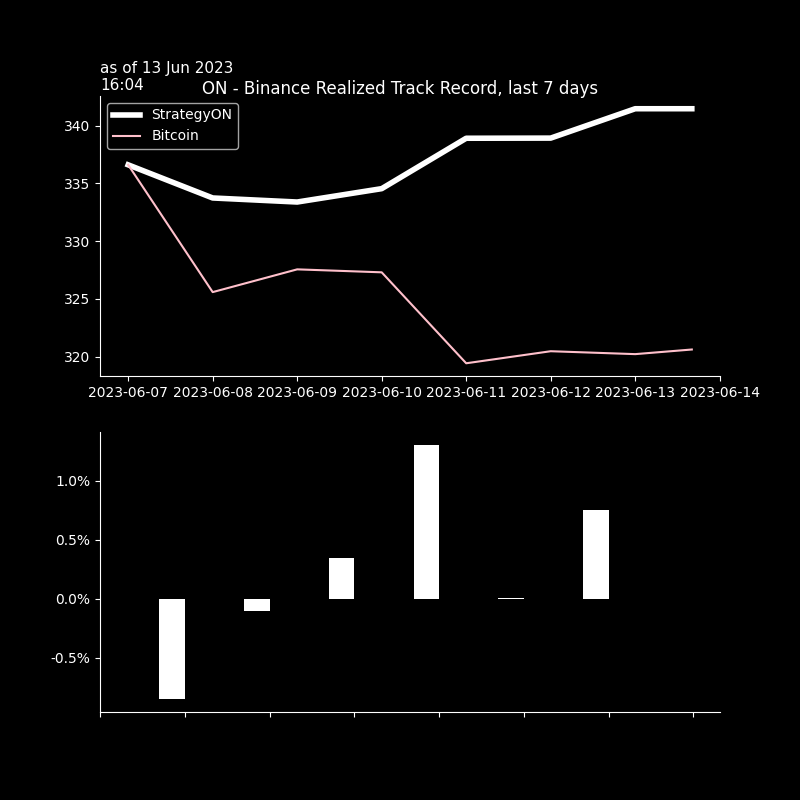
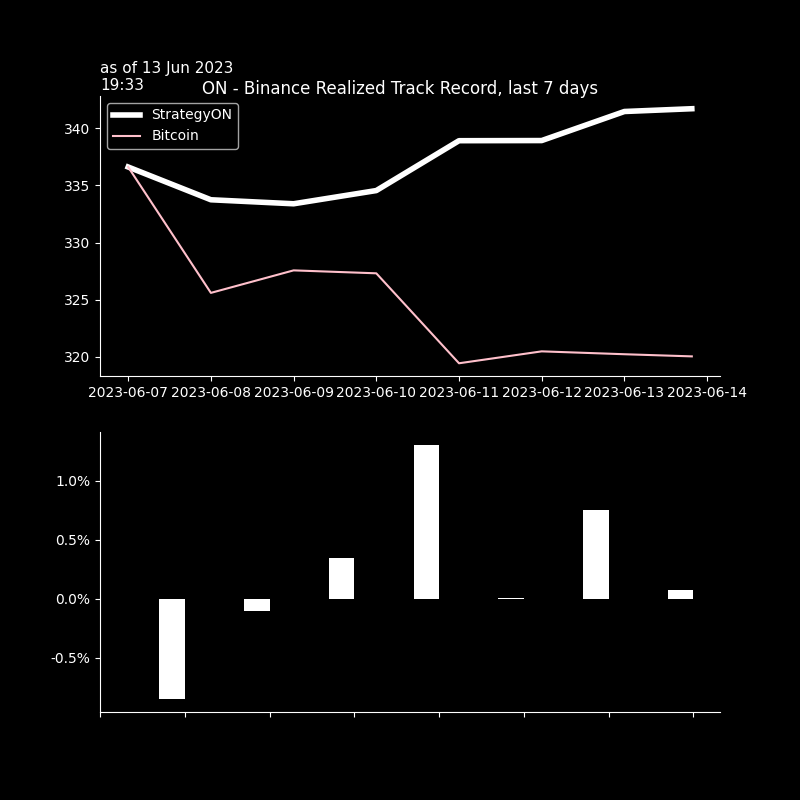
seb_commit

diff --git a/crypto/index_tearsheets.html b/crypto/index_tearsheets.html
@@ -85,25 +85,28 @@ PAGE DE GARDE
             }
 
             let tree = {
-                1: {
-                    2: {
-                        4: '',
+                    1: {
+                    2: {},
+                    3: {
                         5: '',
                         6: '',
+                        7: '',
                     },
-                    3: {7:''},
-
+                    4: {},
+                    
                 },
             };
 
             let params = {
-                1: { trad: '<b>Mozaic+Overnight</b>',href:'graphs/backtest/tearsheets/Mozaic+Overnight.html' },
-                2: { trad: '<b>Mozaic</b>' ,href:'graphs/backtest/tearsheets/Mozaic.html'},
-                3: { trad: '<b>Overnight</b>' ,href:'graphs/backtest/tearsheets/4_Overnight.html'},
-                4: { trad: '<b>Strategy1<br>Mozaic L</b><br>[100%]' ,href:'graphs/backtest/tearsheets/1_Mozaic_L.html'},
-                5: { trad: '<b>Strategy2<br>Mozaic L Flexible</b><br>[0%,+100%]' ,href:'graphs/backtest/tearsheets/2_Mozaic_SL.html'},
-                6: { trad: '<b>Strategy3<br>Mozaic L/S</b><br>net:[0%,+100%]' ,href:'graphs/backtest/tearsheets/3_Mozaic_LS.html'},
-                7: { trad: '<b>Strategy4<br>Overnight</b><br>[-100%,+100%]' ,href:'graphs/backtest/tearsheets/4_Overnight.html'},
+                1: { trad: '<b>TAME STRATEGY</b>',href:'graphs/backtest/tearsheets/Mozaic+Overnight.html' },
+                3: { trad: '<b>Coins Rotation</b>' ,href:'graphs/backtest/tearsheets/Mozaic.html'},
+                2: { trad: '<b>Overnight</b>' ,href:'graphs/backtest/tearsheets/4_Overnight.html'},
+                4: { trad: '<b>Liquity</b>' ,href:'graphs/backtest/tearsheets/4_Overnight.html'},
+                5: { trad: '<b>Strategy1<br>Mozaic L</b><br>[100%]' ,href:'graphs/backtest/tearsheets/1_Mozaic_L.html'},
+                6: { trad: '<b>Strategy2<br>Mozaic L Flexible</b><br>[0%,+100%]' ,href:'graphs/backtest/tearsheets/2_Mozaic_SL.html'},
+                7: { trad: '<b>Strategy3<br>Mozaic L/S</b><br>net:[0%,+100%]' ,href:'graphs/backtest/tearsheets/3_Mozaic_LS.html'},
+                8: { trad: '<b>Strategy4<br>Overnight</b><br>[-100%,+100%]' ,href:'graphs/backtest/tearsheets/4_Overnight.html'},
+                
             };
 
             treeMaker.default(tree, {

diff --git a/crypto/graphs/bt_trades_book.htmltrade_trades_book.html b/crypto/graphs/bt_trades_book.htmltrade_trades_book.html
@@ -37,21 +37,55 @@
   </thead>
   <tbody>
     <tr>
-      <th>XRPUSDT</th>
-      <td>0.5124</td>
-      <td>2023-06-13 17:07:00</td>
-      <td>-133.7</td>
-      <td>$-68.5</td>
-      <td>$0.01</td>
-      <td>1.6</td>
-      <td>0.5</td>
-      <td>0.51235</td>
-      <td>2023-06-13 18:06</td>
+      <th>ETHUSDT</th>
+      <td>1741.8000</td>
+      <td>2023-06-13 18:33:16</td>
+      <td>0.098</td>
+      <td>$170.7</td>
+      <td>$0.07</td>
+      <td>4.0</td>
       <td>0.0</td>
-      <td>1.0</td>
-      <td>.5125</td>
+      <td>1742.61500</td>
+      <td>2023-06-13 19:31</td>
+      <td>0.1</td>
+      <td>5.0</td>
+      <td>1741.65</td>
       <td>-0.0</td>
       <td>-1.0</td>
+    </tr>
+    <tr>
+      <th>XRPUSDT</th>
+      <td>0.5151</td>
+      <td>2023-06-13 18:32:23</td>
+      <td>331.800</td>
+      <td>$170.9</td>
+      <td>$0.03</td>
+      <td>1.6</td>
+      <td>0.0</td>
+      <td>0.51525</td>
+      <td>2023-06-13 19:31</td>
+      <td>0.1</td>
+      <td>3.0</td>
+      <td>.5149</td>
+      <td>-0.1</td>
+      <td>-4.0</td>
+    </tr>
+    <tr>
+      <th>BTCUSDT</th>
+      <td>25881.9000</td>
+      <td>2023-06-13 18:33:11</td>
+      <td>0.007</td>
+      <td>$181.2</td>
+      <td>$0.03</td>
+      <td>1.6</td>
+      <td>0.0</td>
+      <td>25886.95000</td>
+      <td>2023-06-13 19:31</td>
+      <td>0.0</td>
+      <td>2.0</td>
+      <td>25876.6</td>
+      <td>-0.0</td>
+      <td>-2.0</td>
     </tr>
   </tbody>
 </table>

diff --git a/crypto/graphs/bt_trades_recap.htmltrade_trades_recap.html b/crypto/graphs/bt_trades_recap.htmltrade_trades_recap.html
@@ -9,33 +9,33 @@
   <tbody>
     <tr>
       <th>as of</th>
-      <td>13Jun 17:07&gt;&gt;17:07</td>
-      <td>#trades: 1</td>
+      <td>13Jun 18:32&gt;&gt;18:33</td>
+      <td>#trades: 3</td>
     </tr>
     <tr>
       <th>trade net</th>
-      <td>-69.0</td>
-      <td>-20.2%</td>
+      <td>+523.0</td>
+      <td>+153.0%</td>
     </tr>
     <tr>
       <th>trade gross</th>
-      <td>+69.0</td>
-      <td>+20.2%</td>
+      <td>+523.0</td>
+      <td>+153.0%</td>
     </tr>
     <tr>
       <th>BUY</th>
+      <td>+523.0</td>
+      <td>+153.0%</td>
+    </tr>
+    <tr>
+      <th>SELL</th>
       <td>+0.0</td>
       <td>+0.0%</td>
     </tr>
     <tr>
-      <th>SELL</th>
-      <td>-69.0</td>
-      <td>-20.2%</td>
-    </tr>
-    <tr>
       <th>fees</th>
-      <td>$ 0.011</td>
-      <td>1.6bp</td>
+      <td>$ 0.125</td>
+      <td>2.38bp</td>
     </tr>
   </tbody>
 </table>

diff --git a/crypto/graphs/bt_trades_pnlD_recap.htmltrade_trades_pnlD_recap.html b/crypto/graphs/bt_trades_pnlD_recap.htmltrade_trades_pnlD_recap.html
@@ -1,7 +1,7 @@
 <table border="1" class="dataframe">
   <thead>
     <tr style="text-align: right;">
-      <th>13 Jun 18:07</th>
+      <th>13 Jun 19:33</th>
       <th>realizedPnl</th>
       <th>PnLvsArrival</th>
       <th>PnLvsLast</th>
@@ -10,21 +10,21 @@
   <tbody>
     <tr>
       <th>in$</th>
-      <td>0.5</td>
       <td>0.0</td>
-      <td>-0.0</td>
+      <td>0.2</td>
+      <td>-0.1</td>
     </tr>
     <tr>
-      <th>in bp 68 traded</th>
-      <td>69 bp</td>
-      <td>1 bp</td>
-      <td>-1 bp</td>
+      <th>in bp 522 traded</th>
+      <td>0 bp</td>
+      <td>3 bp</td>
+      <td>-2 bp</td>
     </tr>
     <tr>
       <th>in bp 341 AUMs</th>
-      <td>14 bp</td>
       <td>0 bp</td>
-      <td>-0 bp</td>
+      <td>5 bp</td>
+      <td>-4 bp</td>
     </tr>
   </tbody>
 </table>
